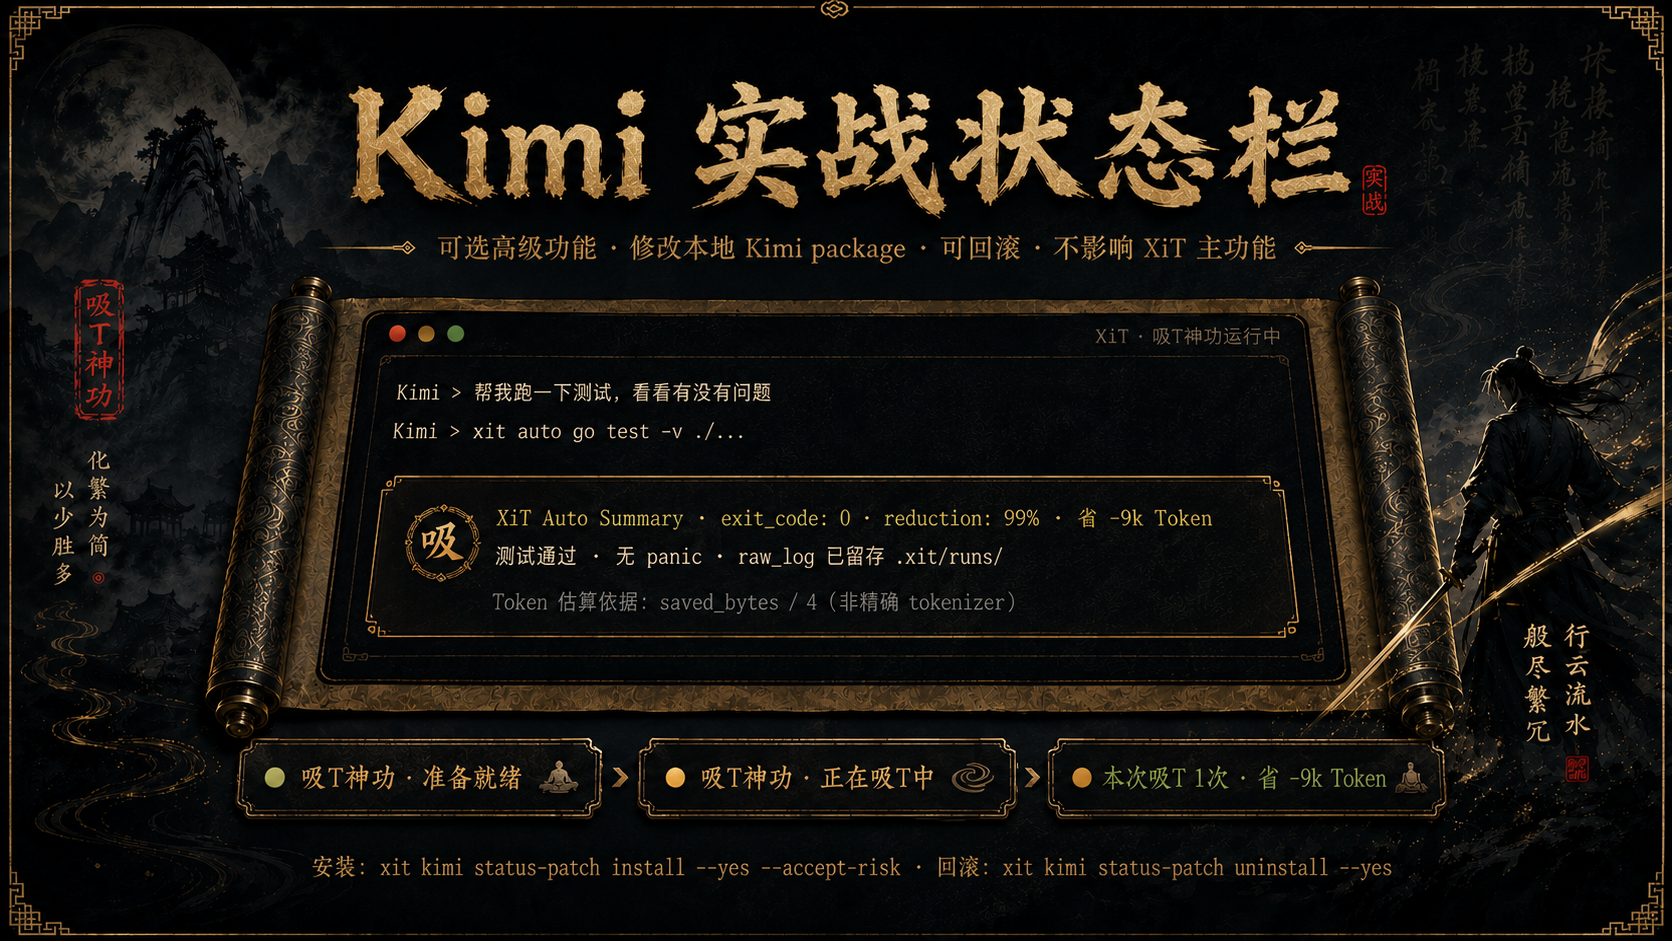
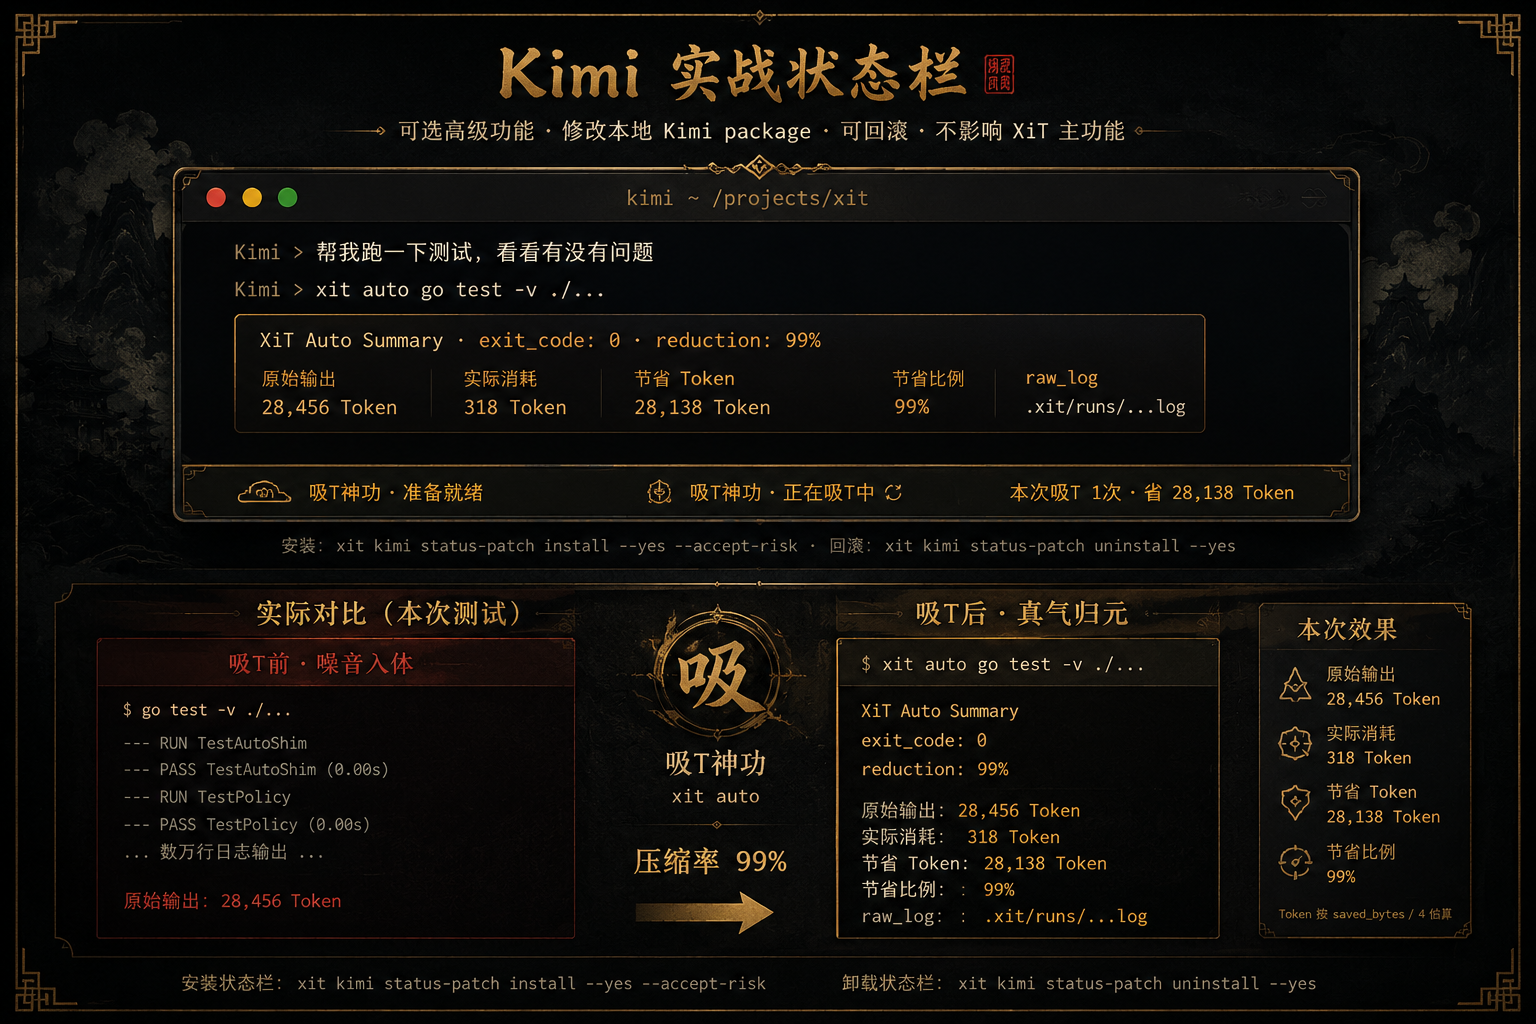
Move Kimi toolbar visual to docs

Changed region(s): [[0.0, 0.0, 1.0, 1.0]]

diff --git a/docs/kimi.md b/docs/kimi.md
@@ -1,49 +1,66 @@
-# XiT — Kimi CLI Integration Guide
+# Kimi CLI 实战适配
 
-## Overview
+Kimi CLI 是 XiT 第一套已跑通的实战适配，用来验证 rules、hook、turn lifecycle、中文状态栏这条链路可行。
 
-XiT's Kimi CLI integration is a **functional prototype**. It works today via rules mode and hook observe. The optional toolbar patch adds a visible status bar inside Kimi.
+![Kimi 实战状态栏](assets/kimi-toolbar.png)
 
 ---
 
-## Installation
-
-### 1. Rules mode (recommended)
-
-Installs a skill file at `~/.kimi/skills/xit/SKILL.md`. Kimi discovers it at startup and proactively uses `xit auto` for high-output commands.
+## 安装
 
 ```bash
 xit init kimi --method official_hook --scope user --yes
 xit kimi rules install --scope user --yes
 ```
 
-Restart Kimi. Verify:
+重启 Kimi 后验证：
 
 ```bash
 xit kimi rules status --scope user
 ```
 
-### 2. Verify Kimi uses XiT
-
-Paste this into Kimi:
-
-```
-Run the tests and show me a summary
-```
-
-Kimi should respond with `xit auto go test -v ./...` instead of raw `go test -v ./...`.
-
-To get the exact dogfood prompt:
-
-```bash
-xit kimi rules dogfood
-```
+验证 Kimi 是否正确使用 XiT：在 Kimi 中说"帮我跑测试"，Kimi 应该调用 `xit auto go test -v ./...`，而不是直接调用 `go test -v ./...`。
 
 ---
 
-## Hook observe mode
+## 可选中文状态栏
 
-Records Kimi's tool calls to `.xit/kimi-hooks/events.jsonl` without blocking anything.
+状态栏是可选高级功能，会修改本地 Kimi Python package（`ui/shell/prompt.py`）。不影响 XiT 主功能，可随时回滚。
+
+状态栏示例：
+
+- `吸T神功 · 准备就绪`：等待下一轮命令
+- `吸T神功 · 正在吸T中`：xit auto 正在接管高噪音命令
+- `本次吸T 1 次 · 省 X Token`：本次 turn 的估算节省
+- `XiT ON · raw_log 留证中`：已留存原始输出
+
+**安装：**
+
+```bash
+xit kimi status-patch install --yes --accept-risk
+```
+
+**回滚：**
+
+```bash
+xit kimi status-patch uninstall --yes
+```
+
+其他 patch 命令：
+
+```bash
+xit kimi status-patch status      # 检查兼容性（只读）
+xit kimi status-patch dry-run     # 预览 patch 计划（不改文件）
+xit kimi status-patch validate    # 在临时副本验证语法
+```
+
+> Kimi 更新可能使 patch 失效，安装前会自动创建备份。
+
+---
+
+## Hook observe 模式
+
+记录 Kimi 的 tool call 到 `.xit/kimi-hooks/events.jsonl`，不阻断任何操作。
 
 ```bash
 xit hook status kimi --scope user
@@ -52,66 +69,56 @@ xit hook stats kimi
 
 ---
 
-## Safe reroute (optional)
+## Safe reroute（可选）
 
-When enabled, XiT returns a `deny` response to Kimi's PreToolUse hook for high-output commands, recommending `xit auto <original>` instead.
+对高噪音命令返回 deny，建议 Kimi 改用 `xit auto <原命令>`。
 
 ```bash
 xit hook enable-reroute kimi --yes
 xit hook disable-reroute kimi --yes
 ```
 
-> **Note:** Kimi shows the deny as a Shell tool ERROR, not a soft suggestion. Kimi may not automatically re-run `xit auto <command>`. Rules mode is the preferred path.
+> 注意：Kimi 会把 deny 显示为 Shell tool ERROR，不是软提示。Kimi 不一定会自动重跑 `xit auto <命令>`。推荐优先使用 rules 模式。
 
 ---
 
-## Optional toolbar patch
+## Token 口径
 
-Modifies Kimi's local Python package to show XiT status in the bottom bar.
+Token 节省是估算值：
 
-Status rotates every 15 seconds:
-- `吸T神功 · 准备就绪`
-- `吸T神功 · 正在吸T中`
-- `本次吸T 1次 · 省 ~9k Token`
-- `XiT ON · raw_log 留证中`
-
-```bash
-# Check compatibility (read-only)
-xit kimi status-patch status
-
-# Preview patch plan (no file changes)
-xit kimi status-patch dry-run
-
-# Validate syntax on temp copy
-xit kimi status-patch validate
-
-# Install (requires --yes --accept-risk)
-xit kimi status-patch install --yes --accept-risk
-
-# Uninstall and restore from backup
-xit kimi status-patch uninstall --yes
+```
+saved_tokens = saved_bytes / 4
 ```
 
-> ⚠️ The toolbar patch is experimental. It modifies Kimi's `ui/shell/prompt.py`. Kimi updates may break it. Backup is created automatically before install.
+这不是 tokenizer 精确计数。实际效果取决于命令类型、输出规模和 AI CLI 是否正确使用 `xit auto`。
 
 ---
 
-## Full health check
+## 安全说明
+
+- 无遥测，不上传日志
+- raw_log 保存在本地（`.xit/runs/`）
+- 状态栏 patch 可回滚，安装前自动备份
+- XiT 主功能不依赖状态栏 patch
+
+---
+
+## 健康检查
 
 ```bash
 xit doctor kimi --deep
-# or
+# 或
 xit kimi doctor
 ```
 
-## Compression stats
+## 查看压缩统计
 
 ```bash
 xit kimi benchmark
 xit gain
 ```
 
-## Uninstall everything
+## 完整卸载
 
 ```bash
 xit kimi rules uninstall --scope user --yes